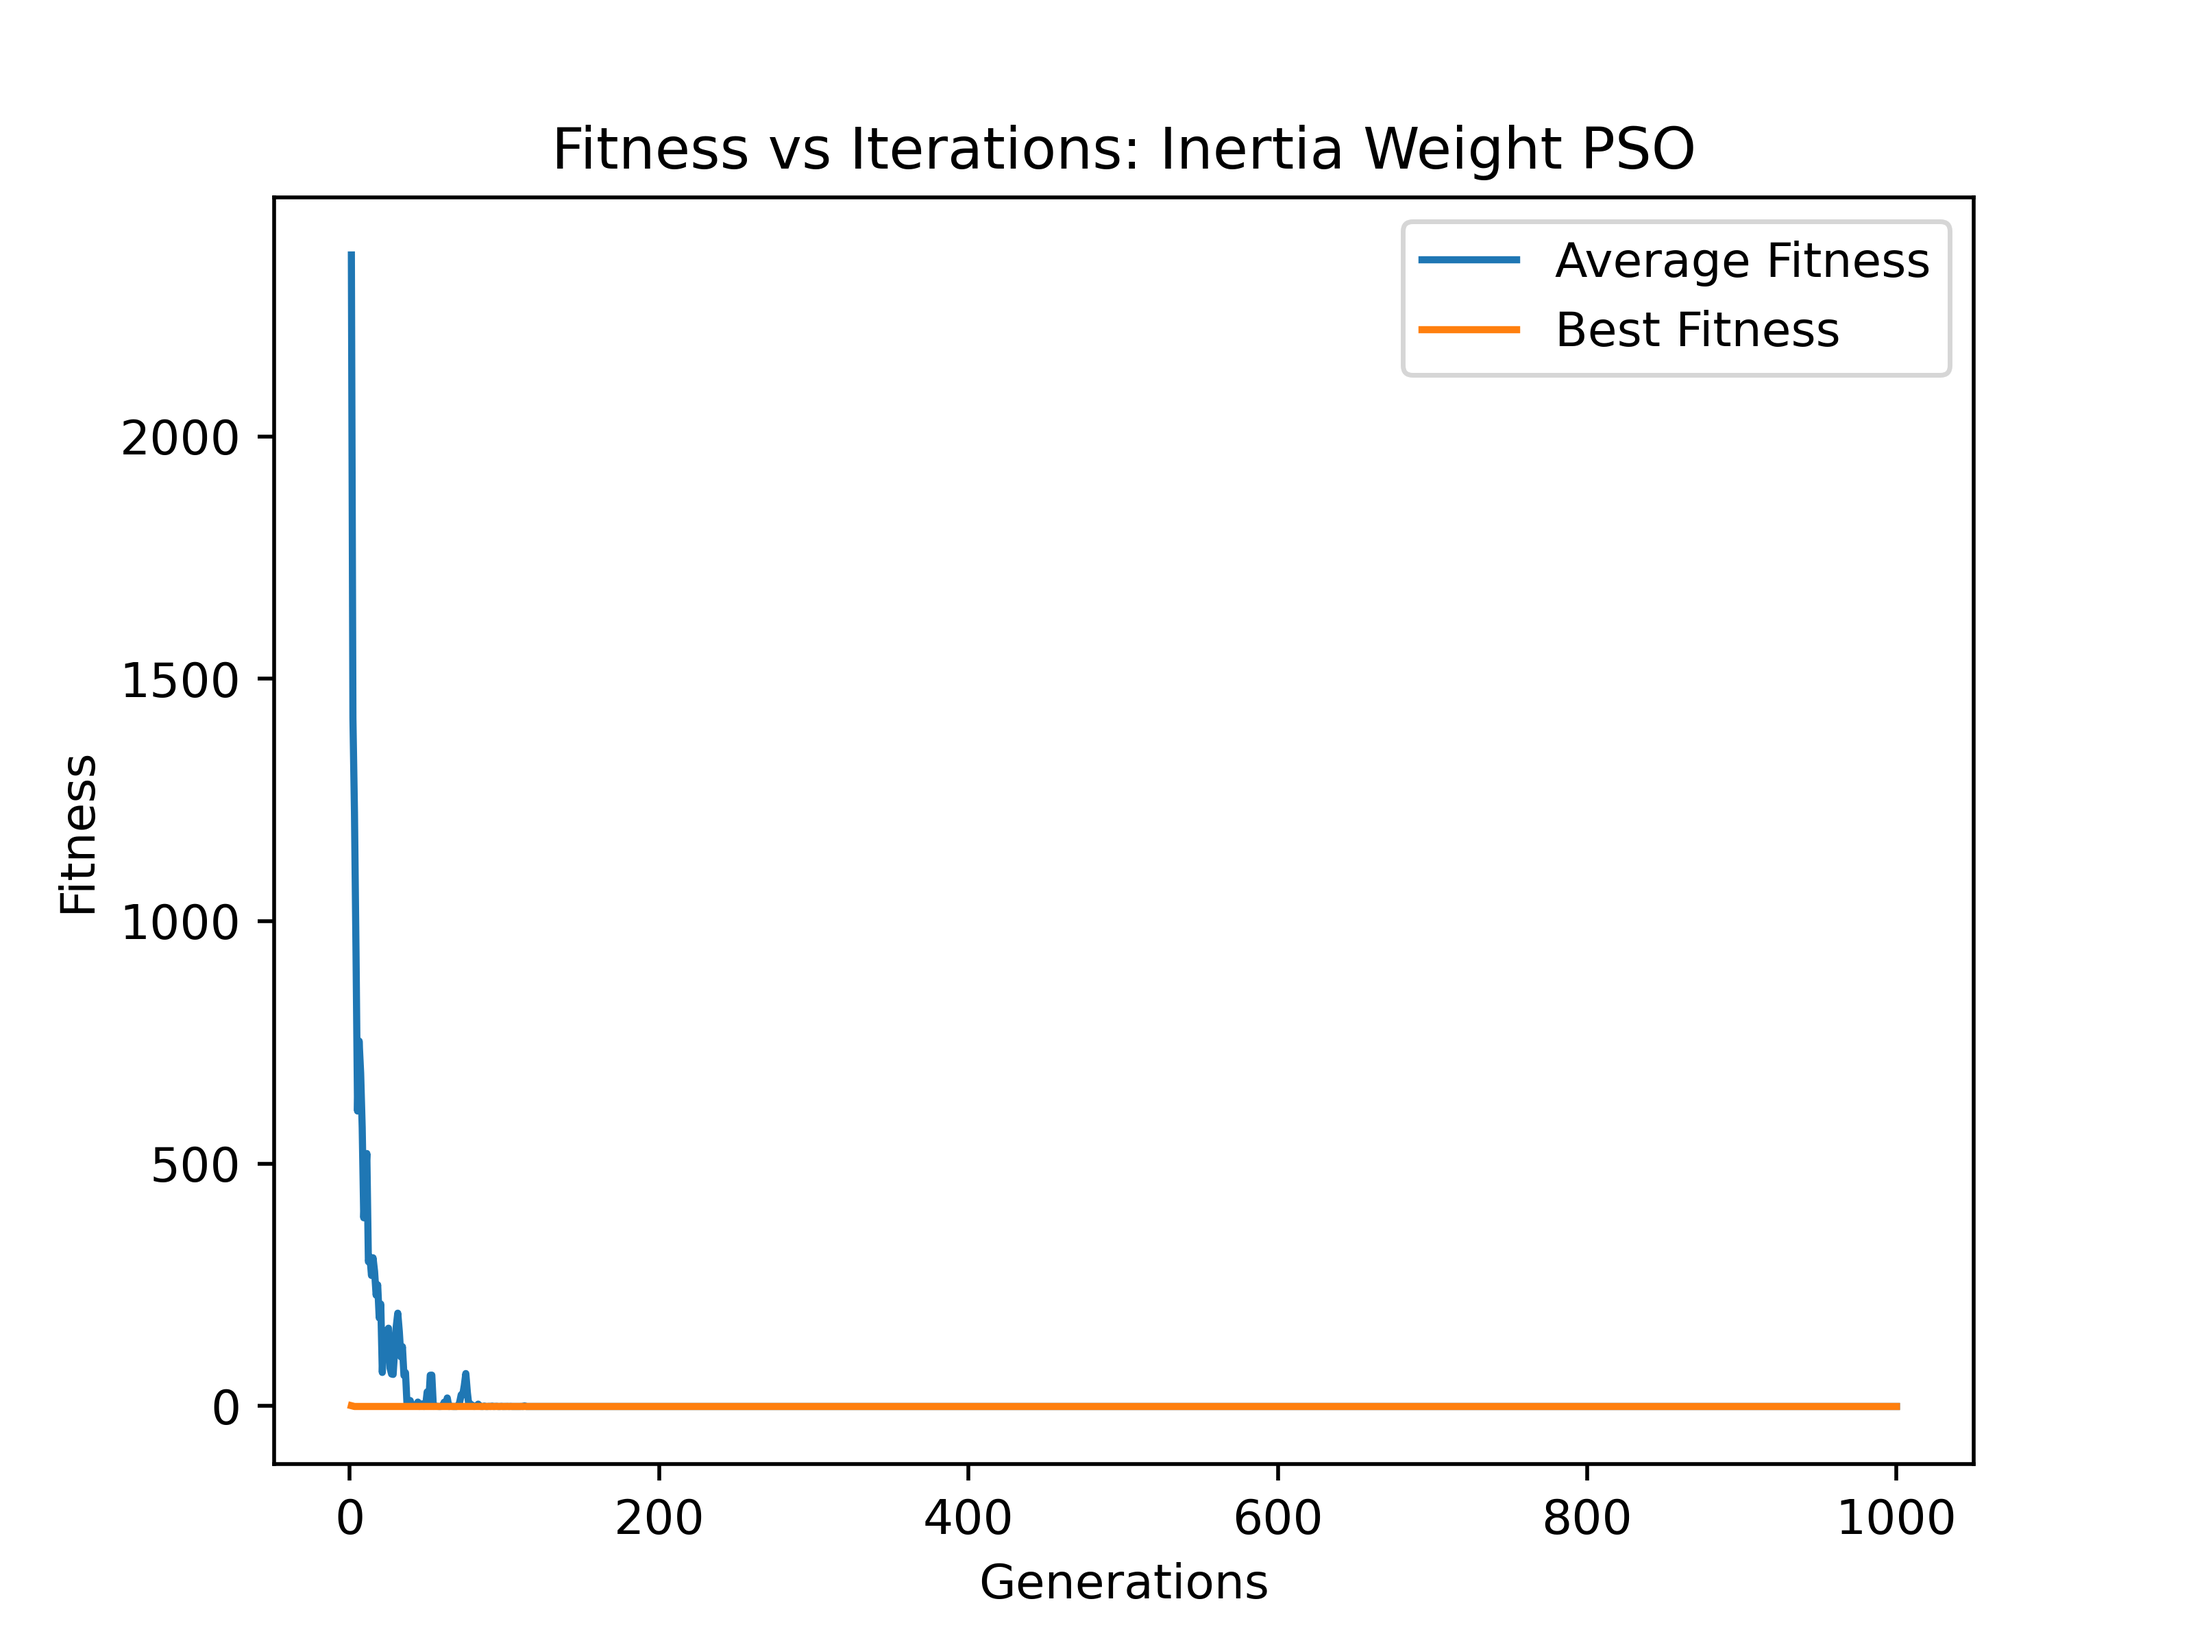
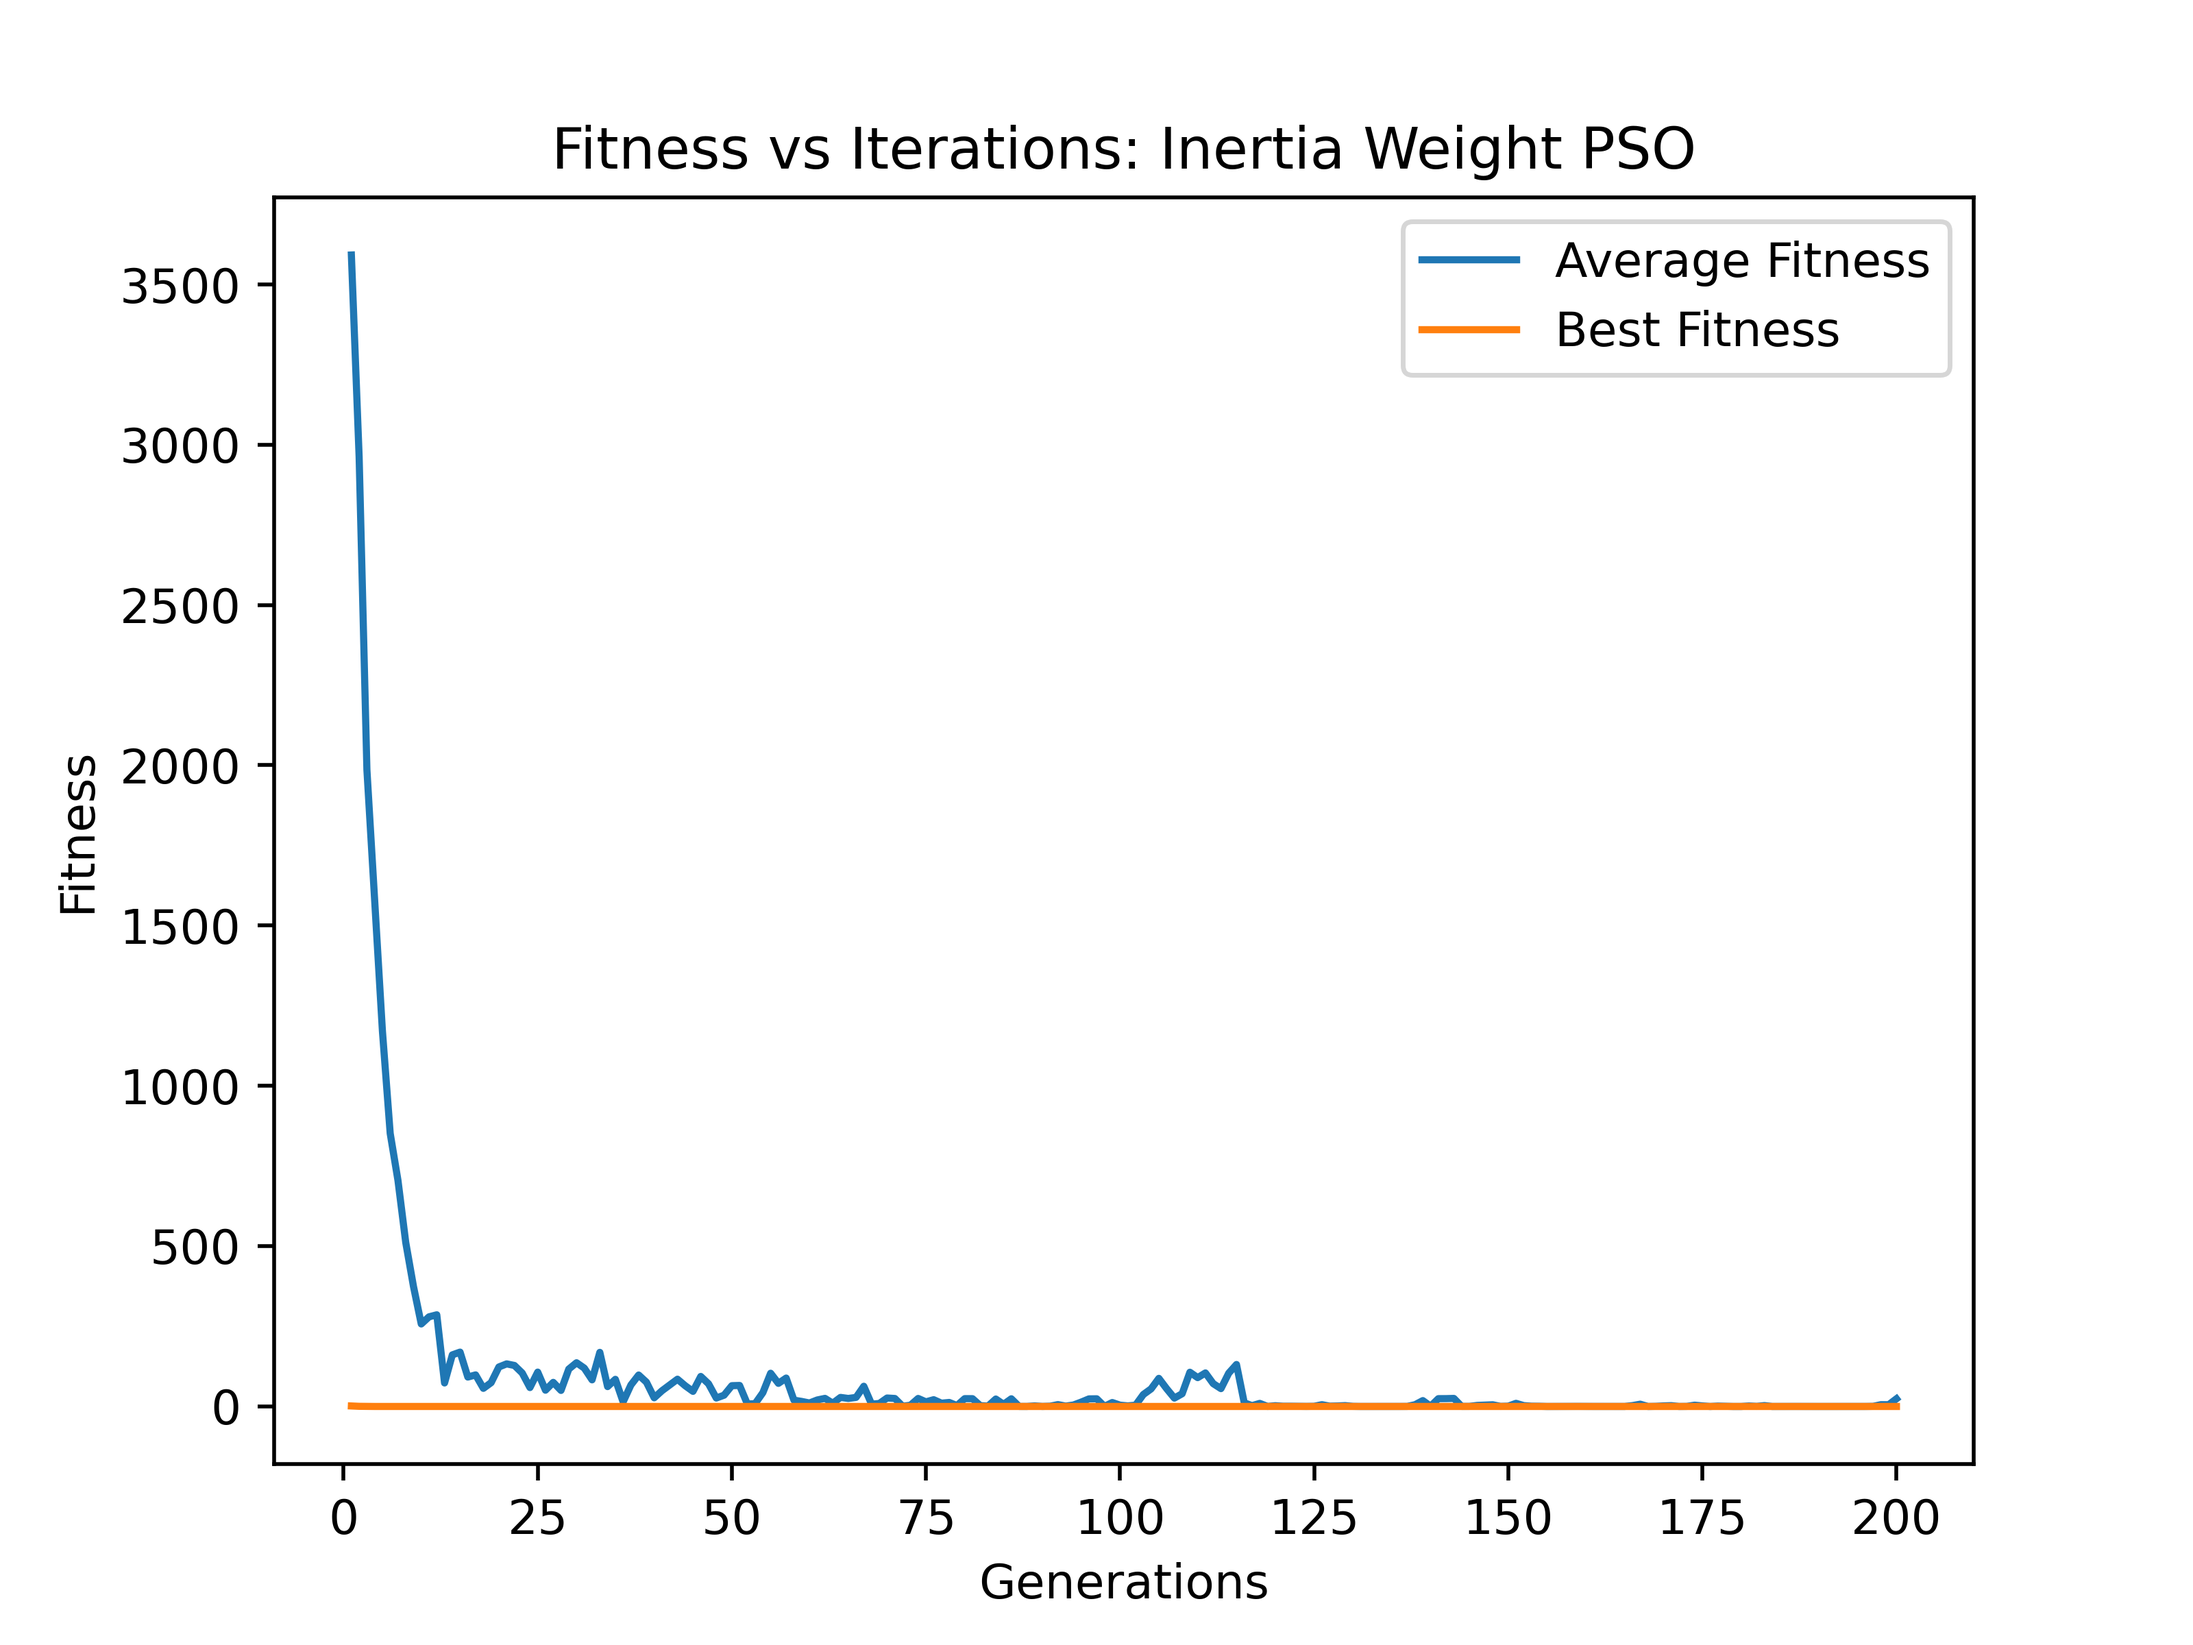
lower iterations:

diff --git a/assignments/a4/q1/run.py b/assignments/a4/q1/run.py
@@ -6,7 +6,7 @@ from plot import graph
 
 
 x_y_range = (-5.0, 5.0)
-iterations = 1000
+iterations = 200
 particle_count = 100
 
 
